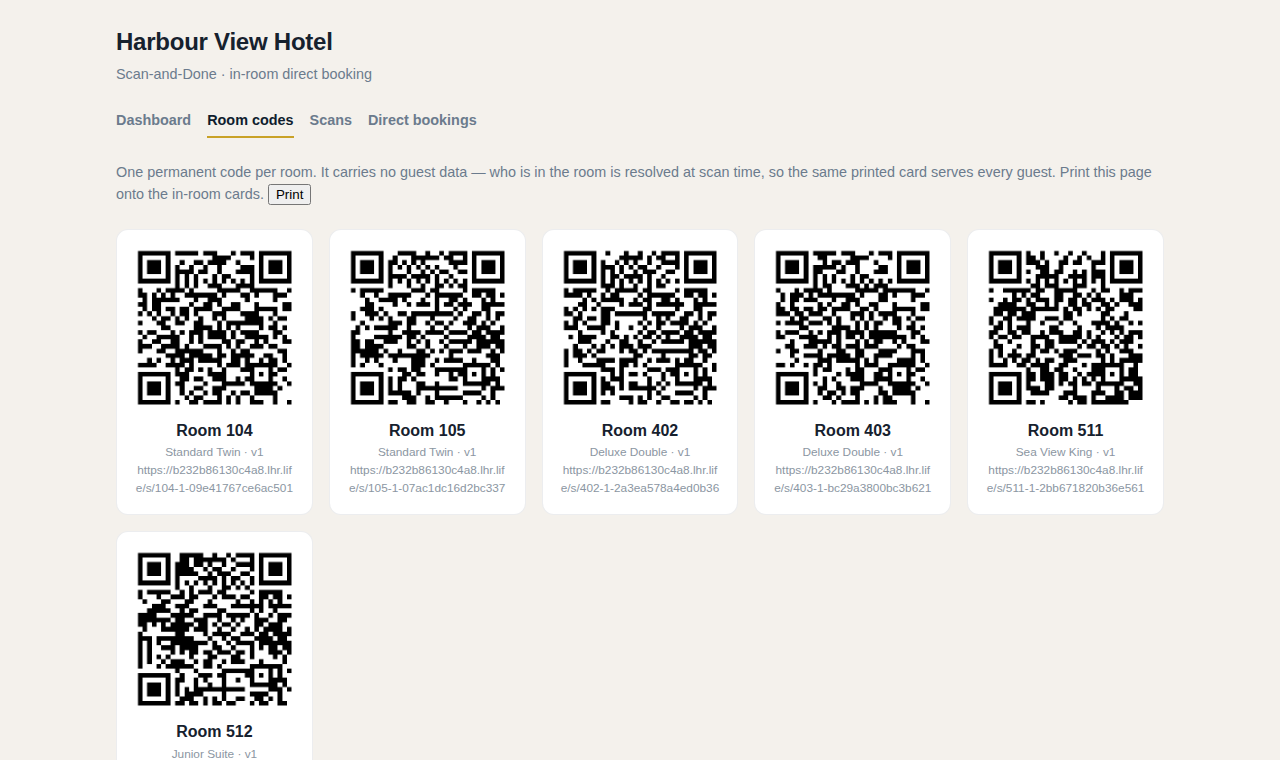
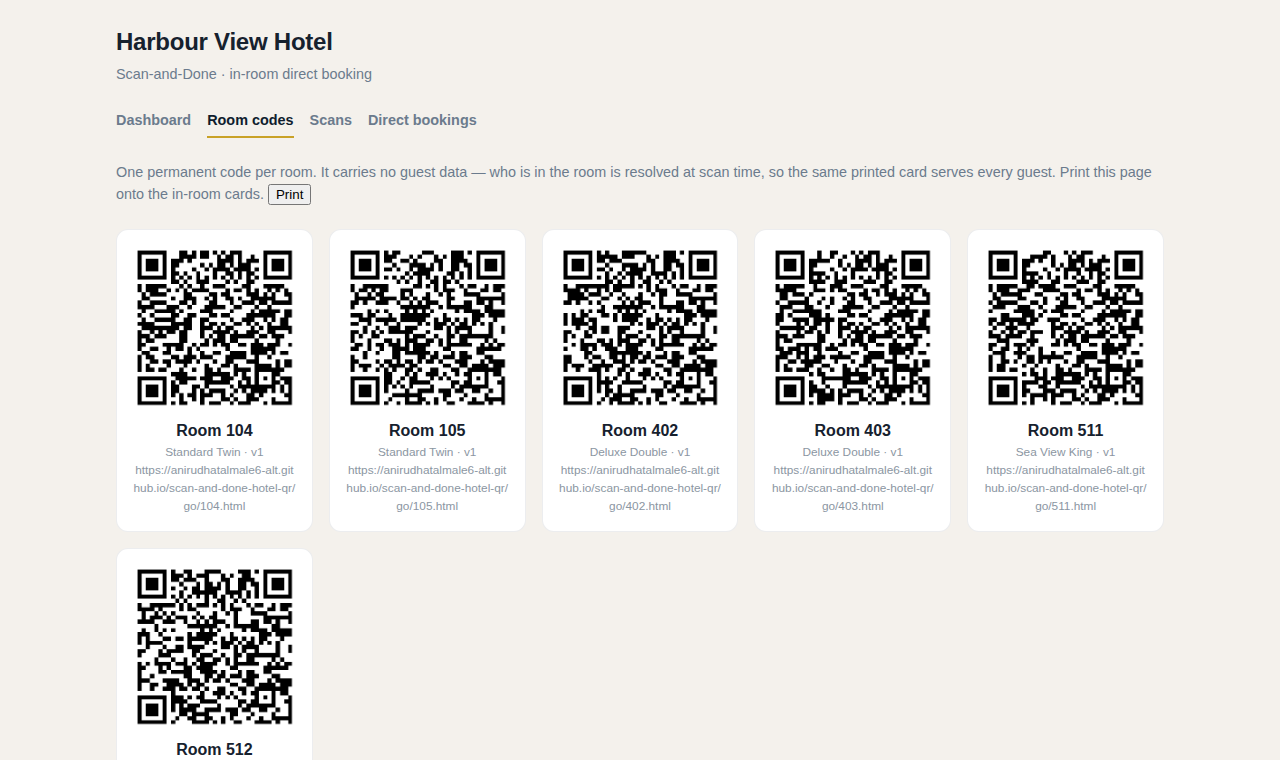
Every published QR encodes the stable address, not a temporary host
The client scanned a code out of a screenshot I had published and hit a dead
tunnel - the codes in that image encoded the host the demo happened to be on
when I captured it. Codes now come from QR_URL_TEMPLATE, which points at the
forwarding pages, and the room-codes screenshot was recaptured. Verified by
decoding the published images rather than trusting the generator.

diff --git a/docs/index.html b/docs/index.html
@@ -31,6 +31,11 @@
   tr:last-child td{border-bottom:0}
   code{background:#eceae5;padding:.12rem .38rem;border-radius:5px;font-size:.87em}
   .shots{display:grid;gap:1.4rem;grid-template-columns:repeat(auto-fit,minmax(15rem,1fr));margin-top:1rem}
+  .qrs{display:grid;gap:1rem;grid-template-columns:repeat(auto-fill,minmax(9.5rem,1fr));margin-top:1rem}
+  .qrs figure{background:#fff;border:1px solid rgba(15,29,46,.08);border-radius:12px;padding:.8rem;text-align:center}
+  .qrs img{width:100%;height:auto;display:block;border:0;box-shadow:none;border-radius:0}
+  .qrs figcaption{font-size:.8rem;color:#6b7b8d;margin-top:.5rem}
+  .qrs figcaption strong{display:block;color:#16212e;font-size:1rem}
   figure{margin:0}
   figure img{width:100%;height:auto;display:block;border-radius:12px;border:1px solid rgba(15,29,46,.1);
              box-shadow:0 10px 30px -18px rgba(15,29,46,.5);background:#fff}
@@ -119,12 +124,16 @@
   </figure>
 </div>
 
-<h2>The QR itself</h2>
-<div class="shots">
-  <figure>
-    <img src="qr-room-402.png" alt="QR code for room 402">
-    <figcaption>The in-room card for room 402. Scan it with a phone camera.</figcaption>
-  </figure>
+<h2>Scan a room</h2>
+<p class="note">These are live. Point a phone camera at any of them — every one of these codes works, and keeps
+   working, because it encodes this page's address rather than wherever the demo server happens to be running.</p>
+<div class="qrs">
+  <figure><img src="qr/402.png" alt="QR code for room 402"><figcaption><strong>402</strong> Maria · Booking.com</figcaption></figure>
+  <figure><img src="qr/511.png" alt="QR code for room 511"><figcaption><strong>511</strong> Daniel · Expedia</figcaption></figure>
+  <figure><img src="qr/104.png" alt="QR code for room 104"><figcaption><strong>104</strong> Sofia · Agoda</figcaption></figure>
+  <figure><img src="qr/512.png" alt="QR code for room 512"><figcaption><strong>512</strong> Tom · Booking.com</figcaption></figure>
+  <figure><img src="qr/403.png" alt="QR code for room 403"><figcaption><strong>403</strong> empty room</figcaption></figure>
+  <figure><img src="qr/105.png" alt="QR code for room 105"><figcaption><strong>105</strong> empty room</figcaption></figure>
 </div>
 
 <footer>

diff --git a/scripts/build-qr-cards.js b/scripts/build-qr-cards.js
@@ -1,0 +1,34 @@
+'use strict';
+
+// Generates the scannable codes published on the demo page.
+//
+// These encode the STABLE forwarding address, never the address the demo
+// happens to be running on today. A code that encodes a temporary host is a
+// code that stops working - which is exactly what caught the client out once
+// already, from a screenshot of codes I had published.
+
+const fs = require('fs');
+const path = require('path');
+const QRCode = require('qrcode');
+const db = require('../src/db');
+
+const TEMPLATE =
+  process.env.QR_URL_TEMPLATE ||
+  'https://anirudhatalmale6-alt.github.io/scan-and-done-hotel-qr/go/{room}.html';
+
+const OUT = path.join(__dirname, '..', 'docs', 'qr');
+fs.mkdirSync(OUT, { recursive: true });
+
+const rooms = db.prepare(`SELECT room_number, room_type FROM rooms WHERE active = 1 ORDER BY room_number`).all();
+
+(async () => {
+  const manifest = [];
+  for (const room of rooms) {
+    const url = TEMPLATE.replace('{room}', room.room_number);
+    const file = path.join(OUT, `${room.room_number}.png`);
+    await QRCode.toFile(file, url, { margin: 2, width: 600, errorCorrectionLevel: 'M' });
+    manifest.push({ room: room.room_number, type: room.room_type, url });
+    console.log(`${room.room_number}  ${url}`);
+  }
+  fs.writeFileSync(path.join(OUT, 'manifest.json'), JSON.stringify(manifest, null, 2));
+})();

diff --git a/src/routes/admin.js b/src/routes/admin.js
@@ -144,7 +144,11 @@ router.get('/codes', async (req, res) => {
   const base = publicBase(req);
   const cards = await Promise.all(
     rooms.map(async (room) => {
-      const url = `${base}/s/${tokens.buildRoomToken(room)}`;
+      const url = config.qrUrlTemplate
+        ? config.qrUrlTemplate
+            .replace('{token}', tokens.buildRoomToken(room))
+            .replace('{room}', room.room_number)
+        : `${base}/s/${tokens.buildRoomToken(room)}`;
       const png = await QRCode.toDataURL(url, { margin: 1, width: 360, errorCorrectionLevel: 'M' });
       return `<div class="qr-card">
         <img src="${png}" alt="QR code for room ${esc(room.room_number)}">

diff --git a/src/config.js b/src/config.js
@@ -15,6 +15,13 @@ module.exports = {
   // Public base URL that the printed QR codes point at.
   publicUrl: (process.env.PUBLIC_URL || '').replace(/\/+$/, ''),
 
+  // What a printed code actually encodes. Default is this server's own scan
+  // route. It is a template because the code has to outlive the address: a
+  // property that prints 200 cards cannot reprint them when the app moves, so
+  // the codes can be pointed at a redirector instead.
+  //   {token} -> signed room token, {room} -> room number
+  qrUrlTemplate: process.env.QR_URL_TEMPLATE || '',
+
   currency: process.env.CURRENCY || 'EUR',
   locale: process.env.LOCALE || 'en-IE',
 
